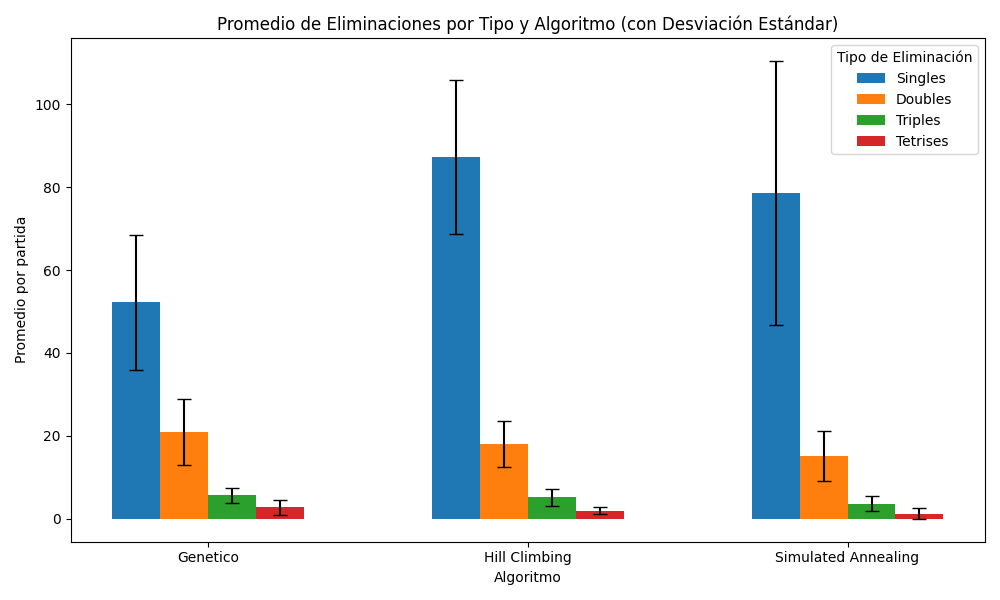
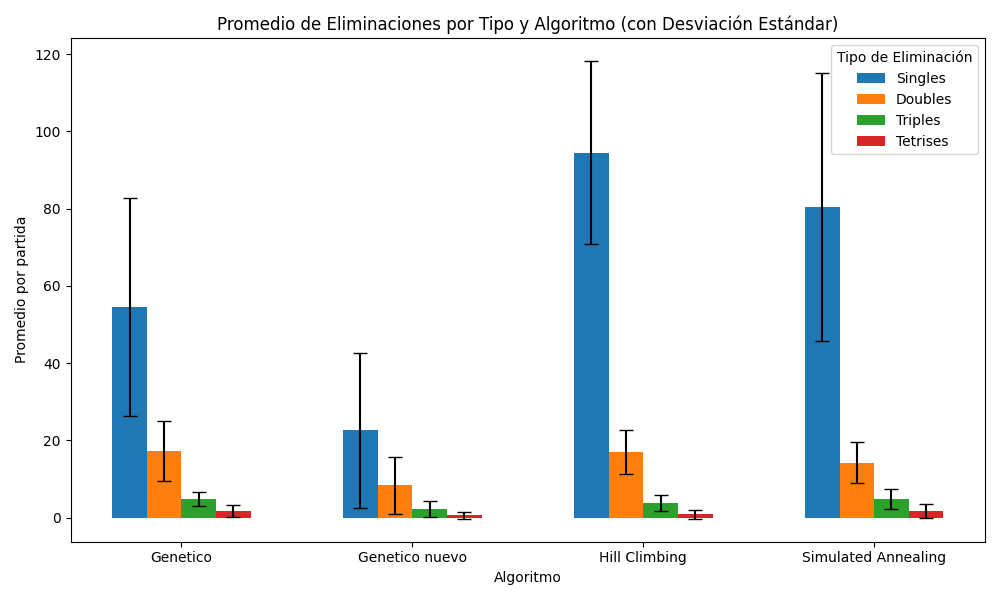
agrego graficos de altura max y tasa de top out

diff --git a/src/pruebas/graficar.py b/src/pruebas/graficar.py
@@ -28,13 +28,19 @@ def graficar():
     # grafico alturas parciales con genetico nuevo
     grafico_alturas_parciales(os.path.join(carpeta_dir, "alturas_parciales.png"))
 
+    grafico_tasa_top_out(os.path.join(carpeta_dir, "tasa_top_out.png"))
+    grafico_altura_max_por_partida(os.path.join(carpeta_dir, "altura_max_partida.png"))
+    boxplot_altura_max(os.path.join(carpeta_dir, "bocplot_altura_max.png"))
+
+
+
     #-----TABLAS-----------------------------------------------
     graficar_tabla("tabla_consistencia.csv",os.path.join(carpeta_dir, "tabla_consistencia.png"))
     graficar_tabla("tabla_promedio_eliminaciones.csv",os.path.join(carpeta_dir, "tabla_promedio_eliminaciones.png"))
     graficar_tabla("tabla_piezas_lineas.csv",os.path.join(carpeta_dir, "tabla_piezas_lineas.png"))
     graficar_tabla("tabla_promedio_metricas.csv",os.path.join(carpeta_dir, "tabla_promedio_metricas.png"))
 
-def grafico_alturas_parciales(ruta_salida, archivo_csv="resultados_alturas_parciales.csv"):
+def grafico_alturas_parciales(ruta_salida, archivo_csv="resultados_algoritmos2.csv"):
     # Leer el CSV
     df = pd.read_csv(archivo_csv, delimiter="|")
 
@@ -53,15 +59,28 @@ def grafico_alturas_parciales(ruta_salida, archivo_csv="resultados_alturas_parci
         # Obtenemos la longitud máxima de alturas
         max_len = df_alg["Alturas parciales"].apply(len).max()
 
+        # padding de listas
+        listas_padded = []
+        for lista in df_alg["Alturas parciales"]:
+            if len(lista) < max_len:
+                lista = lista + [lista[-1]] * (max_len - len(lista))
+            listas_padded.append(lista)
+        
         # Promediamos altura por índice (0=pieza21, 1=pieza42, etc.)
+        # promedios = []
+        # for i in range(max_len):
+        #     valores_i = []
+        #     for lista in df_alg["Alturas parciales"]:
+        #         if i < len(lista):
+        #             valores_i.append(lista[i])
+        #     if valores_i:
+        #         promedios.append(sum(valores_i) / len(valores_i))
+        
+        # promediar verticalmente
         promedios = []
         for i in range(max_len):
-            valores_i = []
-            for lista in df_alg["Alturas parciales"]:
-                if i < len(lista):
-                    valores_i.append(lista[i])
-            if valores_i:
-                promedios.append(sum(valores_i) / len(valores_i))
+            valores_i = [lista[i] for lista in listas_padded]
+            promedios.append(sum(valores_i) / len(valores_i))
 
         # Eje X = piezas cada 21
         x = [(i+1)*21 for i in range(len(promedios))]
@@ -77,14 +96,82 @@ def grafico_alturas_parciales(ruta_salida, archivo_csv="resultados_alturas_parci
     plt.savefig(ruta_salida)
     plt.close()
 
+def grafico_altura_max_por_partida(ruta_salida, archivo_csv="resultados_algoritmos2.csv"):
+    df = pd.read_csv(archivo_csv, delimiter="|")
+
+    plt.figure(figsize=(10,6))
+
+    algoritmos = df["Algoritmo"].unique()
+
+    for alg in algoritmos:
+        df_alg = df[df["Algoritmo"] == alg]
+        plt.plot(df_alg["Iteracion"], df_alg["Altura max"], marker="o", label=alg)
+
+    plt.axhline(22, color="red", linestyle="--", label="Top-out (22)")
+    plt.axhline(20, color="orange", linestyle="--", label="Zona peligrosa (20)")
+
+    plt.title("Altura máxima por partida")
+    plt.xlabel("Iteración")
+    plt.ylabel("Altura máxima alcanzada")
+    plt.legend()
+    plt.grid(True)
+
+    plt.savefig(ruta_salida)
+    plt.close()
+
+def boxplot_altura_max(ruta_salida, archivo_csv="resultados_algoritmos2.csv"):
+    df = pd.read_csv(archivo_csv, delimiter="|")
+
+    plt.figure(figsize=(10,6))
+
+    df.boxplot(column="Altura max", by="Algoritmo")
+    plt.axhline(22, color="red", linestyle="--")
+    plt.axhline(20, color="orange", linestyle="--")
+
+    plt.title("Distribución de altura máxima por algoritmo")
+    plt.suptitle("")  # elimina título duplicado de pandas
+    plt.xlabel("Algoritmo")
+    plt.ylabel("Altura máxima")
+
+    plt.grid(True, axis='y')
+
+    plt.savefig(ruta_salida)
+    plt.close()
+
+def grafico_tasa_top_out(ruta_salida, archivo_csv="resultados_algoritmos2.csv"):
+    df = pd.read_csv(archivo_csv, delimiter="|")
+
+    algoritmos = df["Algoritmo"].unique()
+    tasas = []
+
+    for alg in algoritmos:
+        df_alg = df[df["Algoritmo"] == alg]
+        total = len(df_alg)
+        topouts = (df_alg["Altura max"] == 22).sum()
+        tasa = topouts / total * 100
+        tasas.append(tasa)
+
+    plt.figure(figsize=(8,5))
+    plt.bar(algoritmos, tasas)
+
+    plt.title("Porcentaje de top-out por algoritmo")
+    plt.ylabel("% de partidas con top-out")
+    plt.xlabel("Algoritmo")
+
+    plt.grid(axis="y")
+
+    plt.savefig(ruta_salida)
+    plt.close()
+
+
 def grafico_dispersion(imagen):
     # Cargar datos y calcular promedio por algoritmo
-    df = pd.read_csv('resultados_algoritmos.csv', sep='|')
+    df = pd.read_csv('resultados_algoritmos2.csv', sep='|')
     df_prom = df.groupby('Algoritmo')[['Puntaje', 'Tiempo promedio']].mean().reset_index()
 
     # Colores y marcadores por algoritmo
-    colores = {'Hill Climbing':'blue', 'Simulated Annealing':'green', 'Genetico':'red'}
-    markers = {'Hill Climbing':'o', 'Simulated Annealing':'s', 'Genetico':'^'}
+    colores = {'Hill Climbing':'blue', 'Simulated Annealing':'yellow', 'Genetico':'green', 'Genetico nuevo': 'red' }
+    markers = {'Hill Climbing':'o', 'Simulated Annealing':'s', 'Genetico':'^', 'Genetico nuevo': 'D'}
 
     plt.figure(figsize=(12, 6))
     for _, row in df_prom.iterrows():
@@ -104,7 +191,7 @@ def grafico_dispersion(imagen):
 
 def grafico_dispersion_con_desv(imagen):
     # Cargar datos
-    df = pd.read_csv('resultados_algoritmos.csv', sep='|')
+    df = pd.read_csv('resultados_algoritmos2.csv', sep='|')
 
     # Calcular promedio y desviación estándar
     stats = df.groupby('Algoritmo')[['Puntaje', 'Tiempo promedio']].agg(['mean', 'std'])
@@ -112,8 +199,9 @@ def grafico_dispersion_con_desv(imagen):
     stats = stats.reset_index()
 
     # Configuración visual
-    colores = {'Hill Climbing':'blue', 'Simulated Annealing':'green', 'Genetico':'red'}
-    markers = {'Hill Climbing':'o', 'Simulated Annealing':'s', 'Genetico':'^'}
+    colores = {'Hill Climbing':'blue', 'Simulated Annealing':'yellow', 'Genetico':'green', 'Genetico nuevo': 'red' }
+    markers = {'Hill Climbing':'o', 'Simulated Annealing':'s', 'Genetico':'^', 'Genetico nuevo': 'D'}
+
 
     plt.figure(figsize=(12, 6))
 
@@ -151,7 +239,7 @@ def grafico_dispersion_con_desv(imagen):
 
 def grafico_puntaje_total(imagen):
     
-    df = pd.read_csv("resultados_algoritmos.csv", sep='|')
+    df = pd.read_csv("resultados_algoritmos2.csv", sep='|')
 
     # Crear boxplot
     plt.figure(figsize=(12, 6))
@@ -170,15 +258,15 @@ def grafico_puntaje_total(imagen):
     plt.close()
 
 def grafico_nivel_puntaje(imagen):
-    df = pd.read_csv('resultados_algoritmos.csv', sep='|')
+    df = pd.read_csv('resultados_algoritmos2.csv', sep='|')
 
     # Calcular promedio por algoritmo
     df_prom = df.groupby('Algoritmo')[['Nivel', 'Puntaje']].mean().reset_index()
 
     # Crear gráfico
     plt.figure(figsize=(10, 6))
-    colores = {'Hill Climbing':'blue', 'Simulated Annealing':'green', 'Genetico':'red'}
-
+    colores = {'Hill Climbing':'blue', 'Simulated Annealing':'yellow', 'Genetico':'green', 'Genetico nuevo': 'red' }
+    
     for _, row in df_prom.iterrows():
         plt.scatter(row['Nivel'], row['Puntaje'], color=colores[row['Algoritmo']], s=200)
         plt.text(row['Nivel'], row['Puntaje'] + 200, row['Algoritmo'], ha='center', fontweight='bold')
@@ -195,14 +283,16 @@ def grafico_nivel_puntaje(imagen):
     plt.close()
 
 def grafico_nivel_puntaje_con_desv(imagen):
-    df = pd.read_csv("resultados_algoritmos.csv", sep='|')
+    df = pd.read_csv("resultados_algoritmos2.csv", sep='|')
 
     # Promedio y std
     stats = df.groupby('Algoritmo')[['Nivel', 'Puntaje']].agg(['mean', 'std'])
     stats.columns = ['Nivel_promedio', 'Nivel_std', 'Puntaje_promedio', 'Puntaje_std']
     stats = stats.reset_index()
 
-    colores = {'Hill Climbing':'blue', 'Simulated Annealing':'green', 'Genetico':'red'}
+    colores = {'Hill Climbing':'blue', 'Simulated Annealing':'yellow', 'Genetico':'green', 'Genetico nuevo': 'red' }
+    markers = {'Hill Climbing':'o', 'Simulated Annealing':'s', 'Genetico':'^', 'Genetico nuevo': 'D'}
+
 
     plt.figure(figsize=(10, 6))
 

diff --git a/src/pruebas/tablas.py b/src/pruebas/tablas.py
@@ -4,13 +4,13 @@ def promedios():
     # Visualizamos que algoritmo es mas eficiente en cada metrica
 
     # Cargar datos sin la columna Iteracion
-    df = pd.read_csv("resultados_algoritmos.csv", sep='|', usecols=lambda col: col != 'Iteracion')
+    df = pd.read_csv("resultados_algoritmos2.csv", sep='|', usecols=lambda col: col != 'Iteracion')
 
     # Calcular promedios
     tabla_promedios = (
         df.groupby("Algoritmo")
         .mean(numeric_only=True)
-        .reindex(["Hill Climbing", "Simulated Annealing", "Genetico"])  # fuerza el orden
+        .reindex(["Hill Climbing", "Simulated Annealing", "Genetico", "Genetico nuevo"])  # fuerza el orden
         .T
     )
 
@@ -24,7 +24,7 @@ def relacion_piezas_lineas():
     # Relacion entre cantidad de piezas y lienas eliminadas
     # que tan efecitivas son las decisiones
 
-    df = pd.read_csv("resultados_algoritmos.csv", sep='|')
+    df = pd.read_csv("resultados_algoritmos2.csv", sep='|')
 
     tabla = df.groupby("Algoritmo").agg({
         'Piezas totales': 'first',
@@ -40,7 +40,7 @@ def relacion_piezas_lineas():
 def promedio_de_eliminaciones():
     # visualizamos el estilo de juego de cada algoritmo
     
-    df = pd.read_csv("resultados_algoritmos.csv", sep='|')
+    df = pd.read_csv("resultados_algoritmos2.csv", sep='|')
 
     eliminaciones = ['Singles', 'Doubles', 'Triples', 'Tetrises']
 
@@ -53,7 +53,7 @@ def promedio_de_eliminaciones():
     tabla.to_csv("tabla_promedio_eliminaciones.csv")
 
 def estadisticas_eliminaciones():
-    df = pd.read_csv("resultados_algoritmos.csv", sep='|')
+    df = pd.read_csv("resultados_algoritmos2.csv", sep='|')
 
     columnas = ['Singles', 'Doubles', 'Triples', 'Tetrises']
 
@@ -68,7 +68,7 @@ def estadisticas_eliminaciones():
     desvios.to_csv("tabla_desviacion_eliminaciones.csv")
 
 def tabla_promedio_desviacion_nivel_puntaje():
-    df = pd.read_csv("resultados_algoritmos.csv", sep='|')
+    df = pd.read_csv("resultados_algoritmos2.csv", sep='|')
 
     # Calcular promedio y desviación estándar
     tabla = df.groupby('Algoritmo')[['Nivel', 'Puntaje']].agg(['mean', 'std'])
@@ -83,7 +83,7 @@ def tabla_promedio_desviacion_nivel_puntaje():
     return tabla
 
 def tabla_puntaje_tiempo():
-    df = pd.read_csv("resultados_algoritmos.csv", sep='|')
+    df = pd.read_csv("resultados_algoritmos2.csv", sep='|')
 
     tabla = df.groupby("Algoritmo")[["Puntaje", "Tiempo promedio"]].agg(['mean', 'std'])
     tabla.columns = ["Puntaje_promedio", "Puntaje_std", "Tiempo_promedio", "Tiempo_std"]
@@ -97,7 +97,7 @@ def consistencia():
     # promedio, desv estandarm coeficiente de variacion de los puntajes
     # cv bajo = resultados mas consistentes
 
-    df = pd.read_csv("resultados_algoritmos.csv", sep='|')
+    df = pd.read_csv("resultados_algoritmos2.csv", sep='|')
 
     metricas = ["Puntaje", "Lineas eliminadas"]
 

diff --git a/src/main.py b/src/main.py
@@ -10,21 +10,24 @@ def main():
     # algoritmos + genetico nuevo
     algoritmos = ["Hill Climbing", "Simulated Annealing", "Genetico", "Genetico nuevo"]
     
-    piezas_totales = 400
-    resultados_totales = []
-    semillas = random.sample(range(0,1000000),15)
-    
-    for i in range(len(semillas)):
-        
-        for algoritmo in algoritmos:
-            print(f"Algoritmo {algoritmo}, iteracion: {i}")
-            resultado = controlador(algoritmo, semillas[i], piezas_totales)
-            resultados_totales.append((algoritmo, i+1, resultado))
-        print("")
+    # comentar: ctrl + k ctrl + c
+    # descomentar: ctrl + k ctrl + u
 
-    print("Res total: ",resultados_totales)
+    # piezas_totales = 400
+    # resultados_totales = []
+    # semillas = random.sample(range(0,1000000),15)
+    
+    # for i in range(len(semillas)):
+        
+    #     for algoritmo in algoritmos:
+    #         print(f"Algoritmo {algoritmo}, iteracion: {i}")
+    #         resultado = controlador(algoritmo, semillas[i], piezas_totales)
+    #         resultados_totales.append((algoritmo, i+1, resultado))
+    #     print("")
+
+    # print("Res total: ",resultados_totales)
     #registrar_resultados(resultados_totales)
-    registrar_resultados2(resultados_totales)
+    #registrar_resultados2(resultados_totales)
     tabla.consistencia()
     tabla.promedio_de_eliminaciones()
     #agregado

diff --git a/src/controlador.py b/src/controlador.py
@@ -41,7 +41,7 @@ def controlador(algoritmo, semilla, piezas_totales):
     tiempo_ultimo_movimiento = pygame.time.get_ticks()
     #juego.set_vel_caida()
     #intervalo_bajada = juego.get_vel_caida()  # ms
-    intervalo_bajada = 10
+    intervalo_bajada = 7
     # agente
     jugador = Agente()
     
@@ -80,6 +80,8 @@ def controlador(algoritmo, semilla, piezas_totales):
                 #intervalo_bajada = juego.vel_caida
 
             if juego.game_over:
+                altura_parcial.append(juego.tablero.calcular_altura())
+                print(f"PERDIO: {algoritmo}")
                 corriendo = False
 
             tiempo_ultimo_movimiento = ahora

diff --git a/src/pruebas/registrar_resultados2.py b/src/pruebas/registrar_resultados2.py
@@ -1,7 +1,7 @@
 import csv
 import json
 
-def registrar_resultados2(resultados_totales, nombre_archivo = "resultados_alturas_parciales.csv"):
+def registrar_resultados2(resultados_totales, nombre_archivo = "resultados_algoritmos2.csv"):
     cabecera = [
         "Algoritmo", "Iteracion", "Piezas totales", "Puntaje", "Tiempo promedio",
         "Lineas eliminadas", "Altura max", "Huecos",
